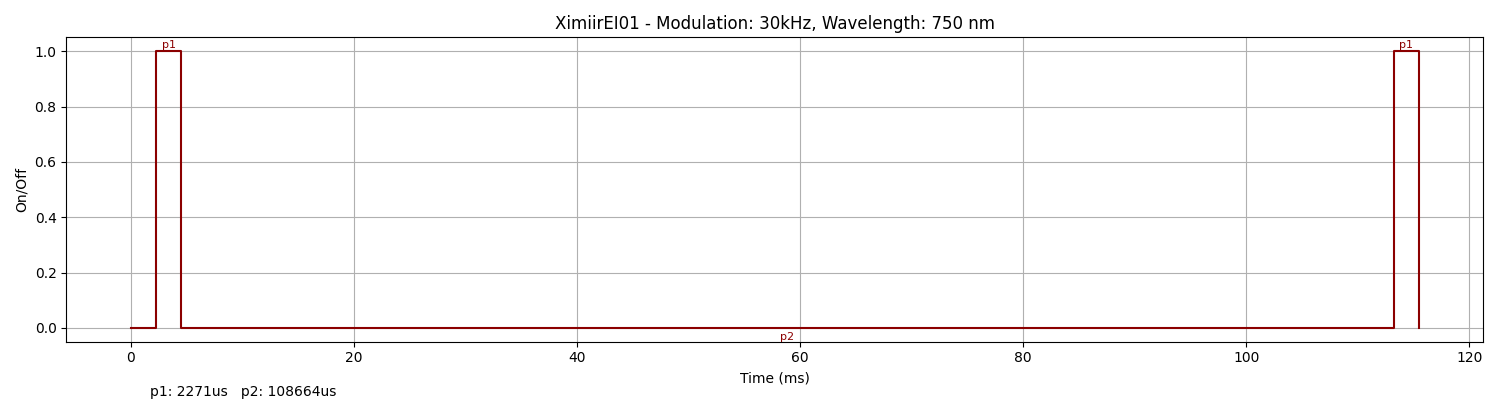
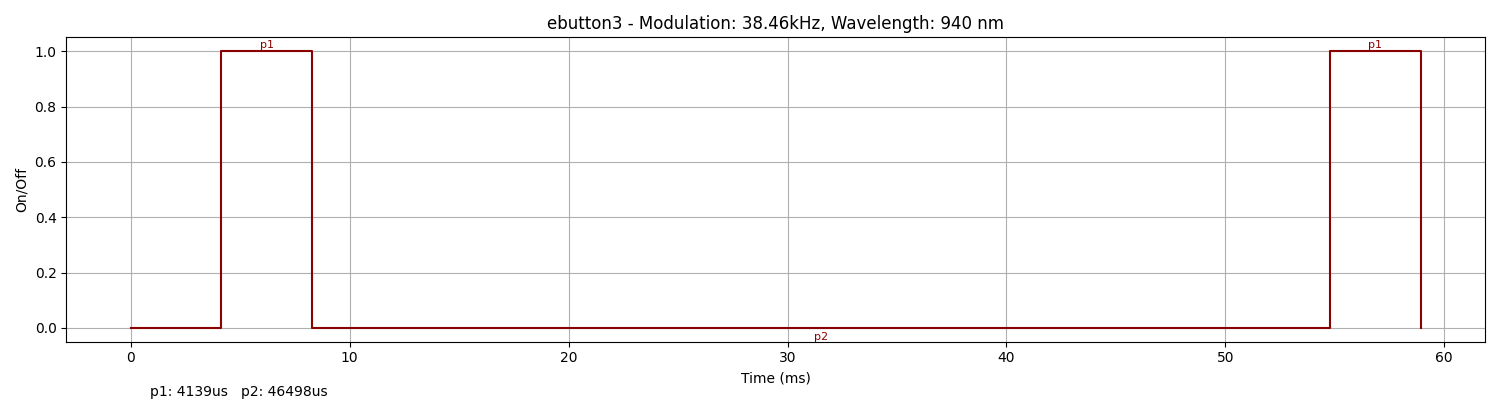
update ebutton3

diff --git a/EButton3.md b/EButton3.md
@@ -13,7 +13,7 @@ A pulseview recording made using a logic analyser connected to the LED can be fo
 
 ##### irplot.py data
 ```
-38kHz, 950 nm, ebutton3, 1, 4138us, 46498us
+38.46kHz, 940 nm, ebutton3, 1, 4139us, 46498us
 ```
 
 ##### irplot.py trace
